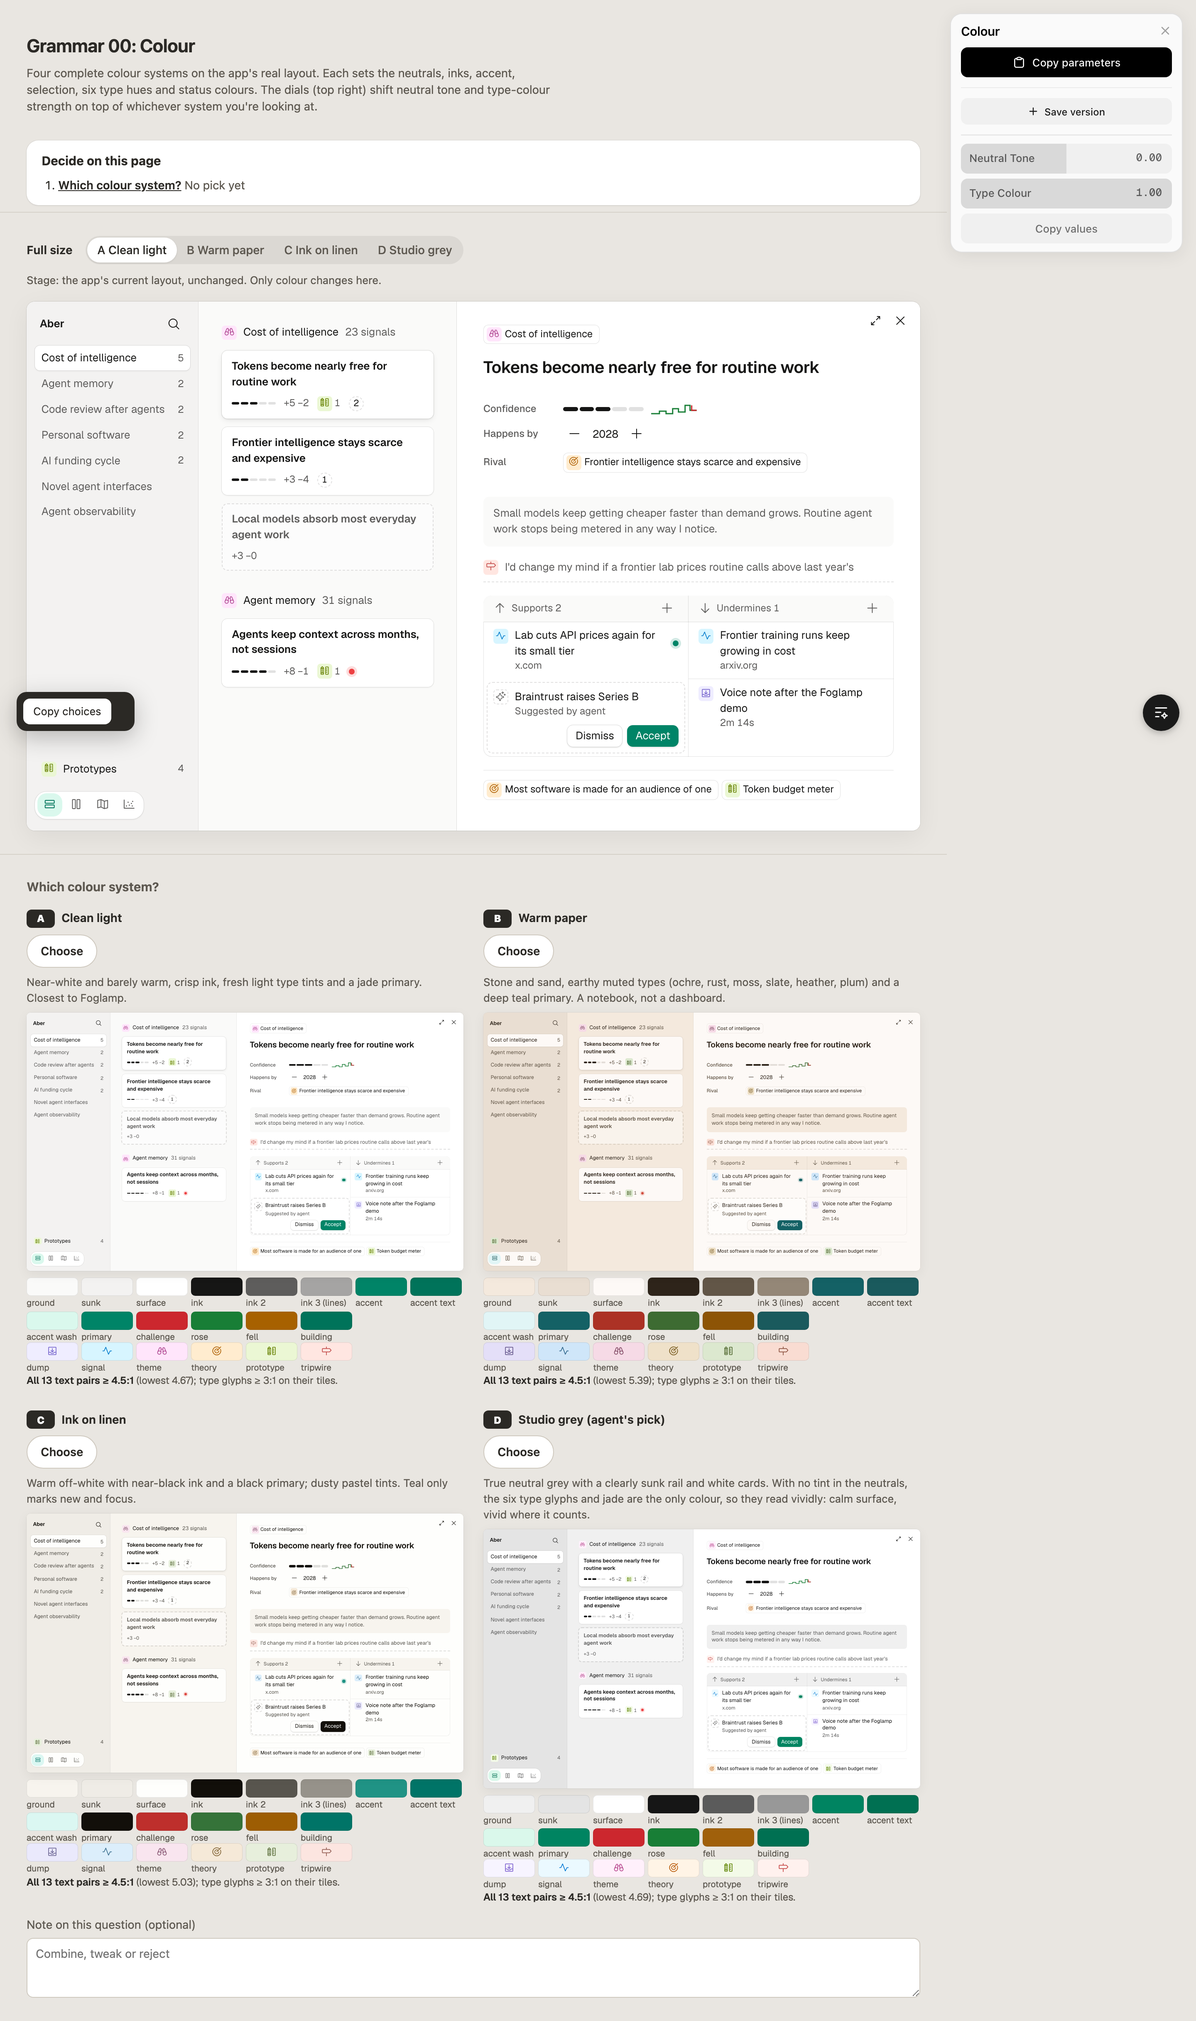
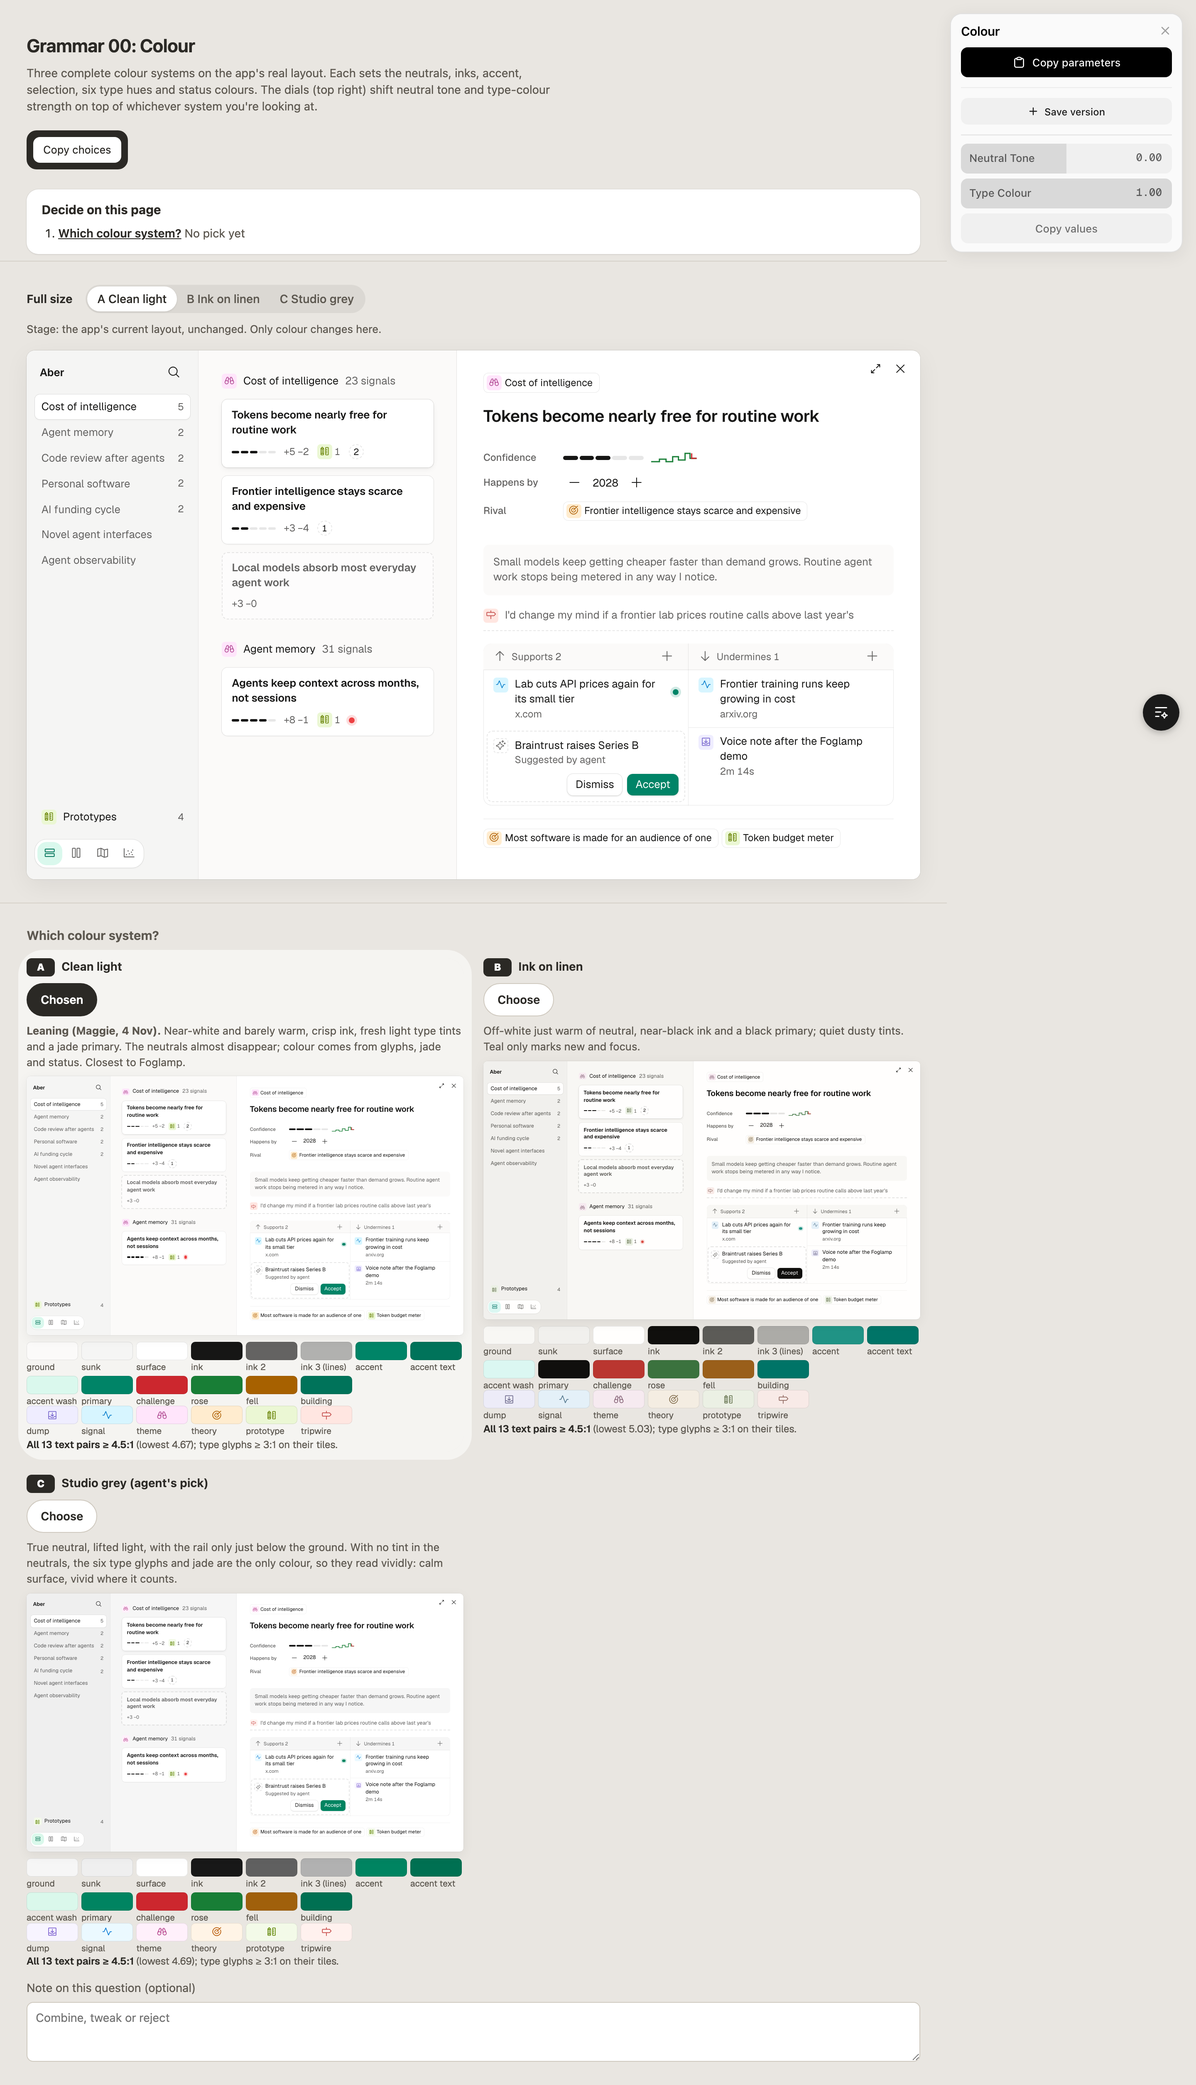
Grammar 00: subtler neutrals, drop Warm paper

Changed region(s): [[0.0, 0.0312, 0.7812, 0.9684], [0.8125, 0.0312, 1.0, 0.1249], [0.9375, 0.3124, 1.0, 0.3748]]

diff --git a/design/grammar/_shared/tokens.css b/design/grammar/_shared/tokens.css
@@ -8,7 +8,7 @@
    inside the page recomputes them with its own system. */
 
 :root {
-  --tone: 0.25;          /* default a touch warmer than designed: Maggie found Sage too cool */
+  --tone: 0;             /* 0 = the system as designed */
   --type-k: 1;
   --r: 7px;
   --text-body: 13px;
@@ -19,21 +19,12 @@
    Each sets: neutral hue/chroma and lightness steps, accent, type hues and their
    tile/glyph lightness+chroma (shared, so the six hues sit at one weight), status. */
 
-/* Default for 01-foundations until a system is chosen on 00-colour: Sage, warmed. */
-:root, [data-system="sage"] {
-  --n-h: 165; --n-c: 0.006;
-  --L-ground: 0.972; --L-sunk: 0.948; --L-surface: 1; --L-ink: 0.235; --L-ink2: 0.48; --L-ink3: 0.66;
-  --acc-h: 170; --acc-c: 0.115; --acc-L: 0.64; --acc-L-text: 0.52;
-  --primary-default: accent;
-  --t-dump: 285; --t-signal: 240; --t-theme: 335; --t-theory: 75; --t-prototype: 118; --t-tripwire: 28;
-  --tt-L: 0.952; --tt-C: 0.038; --tg-L: 0.53; --tg-C: 0.13;
-  --st-neg: oklch(0.55 0.19 25); --st-neg-dot: oklch(0.63 0.2 25); --st-pos: oklch(0.52 0.13 145); --st-fell: oklch(0.55 0.12 65);
-}
-
-/* 1. Clean light: near-neutral white and grey, crisp ink, fresh light type tints, jade accent (Foglamp). */
-[data-system="clean"] {
-  --n-h: 90; --n-c: 0.002;
-  --L-ground: 0.985; --L-sunk: 0.962; --L-surface: 1; --L-ink: 0.2; --L-ink2: 0.48; --L-ink3: 0.72;
+/* 1. Clean light (lead; Maggie leaning, 4 Nov): near-white, barely warm, crisp ink, fresh light type tints, jade primary.
+      Also the default for every page until a system is chosen. Neutrals almost disappear: sunk sits 0.017 below ground. */
+:root, [data-system="clean"] {
+  --n-h: 90; --n-c: 0.0015;
+  --L-ground: 0.986; --L-sunk: 0.969; --L-surface: 1; --L-ink: 0.2; --L-ink2: 0.5; --L-ink3: 0.76;
+  --hl-a: 7%; --hl2-a: 10%; --sh-k: 0.8;
   --acc-h: 172; --acc-c: 0.115; --acc-L: 0.54; --acc-L-text: 0.49;
   --primary-default: accent;
   --t-dump: 288; --t-signal: 245; --t-theme: 340; --t-theory: 70; --t-prototype: 122; --t-tripwire: 25;
@@ -41,33 +32,24 @@
   --st-neg: oklch(0.55 0.2 25); --st-neg-dot: oklch(0.63 0.21 25); --st-pos: oklch(0.52 0.14 148); --st-fell: oklch(0.56 0.13 65);
 }
 
-/* 2. Warm paper: stone and sand neutrals, earthy muted type hues, deep teal accent. */
-[data-system="paper"] {
-  --n-h: 70; --n-c: 0.02;
-  --L-ground: 0.94; --L-sunk: 0.905; --L-surface: 0.985; --L-ink: 0.27; --L-ink2: 0.46; --L-ink3: 0.63;
-  --acc-h: 200; --acc-c: 0.07; --acc-L: 0.45; --acc-L-text: 0.43;
-  --primary-default: accent;
-  --t-dump: 295; --t-signal: 242; --t-theme: 350; --t-theory: 82; --t-prototype: 128; --t-tripwire: 38;
-  --tt-L: 0.915; --tt-C: 0.035; --tg-L: 0.48; --tg-C: 0.085;
-  --st-neg: oklch(0.5 0.16 30); --st-neg-dot: oklch(0.6 0.17 30); --st-pos: oklch(0.48 0.1 140); --st-fell: oklch(0.5 0.11 65);
-}
-
-/* 3. Ink on linen: warm off-white, near-black ink and a black primary, dusty pastel tints; teal only for new and focus. */
+/* 3. Ink on linen: off-white just warm of neutral, near-black ink and a black primary, quiet dusty tints; teal only for new and focus. */
 [data-system="linen"] {
-  --n-h: 85; --n-c: 0.009;
-  --L-ground: 0.968; --L-sunk: 0.943; --L-surface: 0.996; --L-ink: 0.17; --L-ink2: 0.45; --L-ink3: 0.66;
+  --n-h: 85; --n-c: 0.004;
+  --L-ground: 0.975; --L-sunk: 0.955; --L-surface: 0.998; --L-ink: 0.17; --L-ink2: 0.47; --L-ink3: 0.74;
+  --hl-a: 8%; --hl2-a: 11%; --sh-k: 0.85;
   --acc-h: 182; --acc-c: 0.1; --acc-L: 0.6; --acc-L-text: 0.5;
   --primary-default: ink;
   --t-dump: 290; --t-signal: 238; --t-theme: 345; --t-theory: 78; --t-prototype: 125; --t-tripwire: 32;
-  --tt-L: 0.94; --tt-C: 0.026; --tg-L: 0.52; --tg-C: 0.075;
-  --st-neg: oklch(0.53 0.18 27); --st-neg-dot: oklch(0.61 0.19 27); --st-pos: oklch(0.5 0.11 145); --st-fell: oklch(0.54 0.12 65);
+  --tt-L: 0.948; --tt-C: 0.016; --tg-L: 0.53; --tg-C: 0.055;
+  --st-neg: oklch(0.53 0.17 27); --st-neg-dot: oklch(0.61 0.18 27); --st-pos: oklch(0.5 0.1 145); --st-fell: oklch(0.54 0.11 65);
 }
 
-/* 4. Studio grey (agent's proposal): true neutral grey with a clearly sunk rail, white cards, and the six type
-      glyphs as the only colour besides jade; vivid glyphs on near-white tiles. */
+/* 4. Studio grey (agent's proposal): true neutral, lifted so nothing reads as a grey block; rail only just below ground;
+      the type glyphs and jade are the only colour, vivid on near-white tiles. */
 [data-system="studio"] {
-  --n-h: 250; --n-c: 0.0;
-  --L-ground: 0.955; --L-sunk: 0.918; --L-surface: 1; --L-ink: 0.2; --L-ink2: 0.47; --L-ink3: 0.68;
+  --n-h: 250; --n-c: 0;
+  --L-ground: 0.972; --L-sunk: 0.952; --L-surface: 1; --L-ink: 0.21; --L-ink2: 0.49; --L-ink3: 0.76;
+  --hl-a: 7%; --hl2-a: 10%; --sh-k: 0.75;
   --acc-h: 168; --acc-c: 0.12; --acc-L: 0.54; --acc-L-text: 0.48;
   --primary-default: accent;
   --t-dump: 292; --t-signal: 250; --t-theme: 345; --t-theory: 62; --t-prototype: 125; --t-tripwire: 25;
@@ -92,8 +74,8 @@
   --ink-3:    oklch(var(--L-ink3) calc(var(--nc) * 1.4) var(--nh));                       /* lines and marks only */
   --ink-hover: oklch(calc(var(--L-ink) + 0.1) calc(var(--nc) * 1.2) var(--nh));
   --on-ink: oklch(0.99 0 0); --on-ink-2: oklch(0.82 0.005 var(--nh)); --on-ink-fill: oklch(1 0 0 / 0.16);
-  --hairline:        oklch(var(--shade) / 9%);
-  --hairline-strong: oklch(var(--shade) / 13%);
+  --hairline:        oklch(var(--shade) / var(--hl-a));
+  --hairline-strong: oklch(var(--shade) / var(--hl2-a));
   --draft-fill:      oklch(1 0 0 / 45%);
   --scrim:           oklch(var(--shade) / 18%);
 
@@ -111,16 +93,16 @@
   /* Elevation: shadow means height; a 0.5px tinted ring plus soft drops */
   --elev-0: none;
   --elev-1: inset -0.5px 0 0 var(--hairline);
-  --elev-2: 0 0 0 0.5px oklch(var(--shade) / 10%), 0 calc(1px * var(--soft)) calc(2px * var(--soft)) oklch(var(--shade) / calc(5% / var(--soft)));
-  --sel:    0 0 0 0.5px oklch(var(--shade) / 12%), 0 calc(1px * var(--soft)) calc(2px * var(--soft)) oklch(var(--shade) / calc(6% / var(--soft))),
-            0 calc(3px * var(--soft)) calc(8px * var(--soft)) -2px oklch(var(--shade) / calc(10% / var(--soft)));
-  --elev-3: 0 0 0 0.5px oklch(var(--shade) / 10%), 0 calc(8px * var(--soft)) calc(16px * var(--soft)) -4px oklch(var(--shade) / calc(8% / var(--soft))),
-            0 calc(20px * var(--soft)) calc(44px * var(--soft)) -10px oklch(var(--shade) / calc(18% / var(--soft)));
-  --elev-4: 0 0 0 0.5px oklch(var(--shade) / 12%), 0 calc(6px * var(--soft)) calc(12px * var(--soft)) -2px oklch(var(--shade) / calc(8% / var(--soft))),
-            0 calc(16px * var(--soft)) calc(36px * var(--soft)) -8px oklch(var(--shade) / calc(20% / var(--soft)));
-  --elev-5: 0 0 0 0.5px oklch(var(--shade) / 12%), 0 calc(24px * var(--soft)) calc(56px * var(--soft)) -12px oklch(var(--shade) / calc(26% / var(--soft)));
-  --elev-6: 0 calc(4px * var(--soft)) calc(12px * var(--soft)) oklch(var(--shade) / calc(20% / var(--soft)));
-  --elev-7: 0 calc(2px * var(--soft)) calc(6px * var(--soft)) oklch(var(--shade) / calc(18% / var(--soft)));
+  --elev-2: 0 0 0 0.5px oklch(var(--shade) / 10%), 0 calc(1px * var(--soft)) calc(2px * var(--soft)) oklch(var(--shade) / calc(5% * var(--sh-k) / var(--soft)));
+  --sel:    0 0 0 0.5px oklch(var(--shade) / 12%), 0 calc(1px * var(--soft)) calc(2px * var(--soft)) oklch(var(--shade) / calc(6% * var(--sh-k) / var(--soft))),
+            0 calc(3px * var(--soft)) calc(8px * var(--soft)) -2px oklch(var(--shade) / calc(10% * var(--sh-k) / var(--soft)));
+  --elev-3: 0 0 0 0.5px oklch(var(--shade) / 10%), 0 calc(8px * var(--soft)) calc(16px * var(--soft)) -4px oklch(var(--shade) / calc(8% * var(--sh-k) / var(--soft))),
+            0 calc(20px * var(--soft)) calc(44px * var(--soft)) -10px oklch(var(--shade) / calc(18% * var(--sh-k) / var(--soft)));
+  --elev-4: 0 0 0 0.5px oklch(var(--shade) / 12%), 0 calc(6px * var(--soft)) calc(12px * var(--soft)) -2px oklch(var(--shade) / calc(8% * var(--sh-k) / var(--soft))),
+            0 calc(16px * var(--soft)) calc(36px * var(--soft)) -8px oklch(var(--shade) / calc(20% * var(--sh-k) / var(--soft)));
+  --elev-5: 0 0 0 0.5px oklch(var(--shade) / 12%), 0 calc(24px * var(--soft)) calc(56px * var(--soft)) -12px oklch(var(--shade) / calc(26% * var(--sh-k) / var(--soft)));
+  --elev-6: 0 calc(4px * var(--soft)) calc(12px * var(--soft)) oklch(var(--shade) / calc(20% * var(--sh-k) / var(--soft)));
+  --elev-7: 0 calc(2px * var(--soft)) calc(6px * var(--soft)) oklch(var(--shade) / calc(18% * var(--sh-k) / var(--soft)));
   --btn-shadow: 0 1px 2px oklch(var(--shade) / 12%);
   --window-shadow: 0 0 0 0.5px oklch(var(--shade) / 12%), 0 8px 30px oklch(var(--shade) / 6%);
 

diff --git a/design/grammar/00-colour/index.html b/design/grammar/00-colour/index.html
@@ -24,7 +24,7 @@
 
 <header class="jig-head">
   <h1>Grammar 00: Colour</h1>
-  <p>Four complete colour systems on the app's real layout. Each sets the neutrals, inks, accent, selection, six type hues and status colours. The dials (top right) shift neutral tone and type-colour strength on top of whichever system you're looking at.</p>
+  <p>Three complete colour systems on the app's real layout. Each sets the neutrals, inks, accent, selection, six type hues and status colours. The dials (top right) shift neutral tone and type-colour strength on top of whichever system you're looking at.</p>
 </header>
 
 <div class="decide">
@@ -39,38 +39,31 @@
     <span class="viewer-label">Full size</span>
     <span class="seg-group" role="group" aria-label="System at full size">
       <button type="button" value="clean" aria-pressed="true">A Clean light</button>
-      <button type="button" value="paper" aria-pressed="false">B Warm paper</button>
-      <button type="button" value="linen" aria-pressed="false">C Ink on linen</button>
-      <button type="button" value="studio" aria-pressed="false">D Studio grey</button>
+      <button type="button" value="linen" aria-pressed="false">B Ink on linen</button>
+      <button type="button" value="studio" aria-pressed="false">C Studio grey</button>
     </span>
   </div>
   <p class="stage-label">Stage: the app's current layout, unchanged. Only colour changes here.</p>
   <div class="stg-host" id="viewer" data-stage='{"system":"clean"}'></div>
 </section>
 
-<section class="jig-section" id="systems" data-decision="system" data-question="Which colour system?">
+<section class="jig-section" id="systems" data-decision="system" data-question="Which colour system?" data-default="A clean light">
   <div class="jig-compare systems">
     <div class="jig-option" data-option="A clean light">
       <div class="jig-label"><b>A</b> Clean light</div>
-      <p class="jig-note">Near-white and barely warm, crisp ink, fresh light type tints and a jade primary. Closest to Foglamp.</p>
+      <p class="jig-note"><b>Leaning (Maggie, 4 Nov).</b> Near-white and barely warm, crisp ink, fresh light type tints and a jade primary. The neutrals almost disappear; colour comes from glyphs, jade and status. Closest to Foglamp.</p>
       <div class="stg-host" data-option-stage data-stage='{"system":"clean"}'></div>
       <div class="strip" data-strip="clean"></div>
     </div>
-    <div class="jig-option" data-option="B warm paper">
-      <div class="jig-label"><b>B</b> Warm paper</div>
-      <p class="jig-note">Stone and sand, earthy muted types (ochre, rust, moss, slate, heather, plum) and a deep teal primary. A notebook, not a dashboard.</p>
-      <div class="stg-host" data-option-stage data-stage='{"system":"paper"}'></div>
-      <div class="strip" data-strip="paper"></div>
-    </div>
-    <div class="jig-option" data-option="C ink on linen">
-      <div class="jig-label"><b>C</b> Ink on linen</div>
-      <p class="jig-note">Warm off-white with near-black ink and a black primary; dusty pastel tints. Teal only marks new and focus.</p>
+    <div class="jig-option" data-option="B ink on linen">
+      <div class="jig-label"><b>B</b> Ink on linen</div>
+      <p class="jig-note">Off-white just warm of neutral, near-black ink and a black primary; quiet dusty tints. Teal only marks new and focus.</p>
       <div class="stg-host" data-option-stage data-stage='{"system":"linen"}'></div>
       <div class="strip" data-strip="linen"></div>
     </div>
-    <div class="jig-option" data-option="D studio grey">
-      <div class="jig-label"><b>D</b> Studio grey (agent's pick)</div>
-      <p class="jig-note">True neutral grey with a clearly sunk rail and white cards. With no tint in the neutrals, the six type glyphs and jade are the only colour, so they read vividly: calm surface, vivid where it counts.</p>
+    <div class="jig-option" data-option="C studio grey">
+      <div class="jig-label"><b>C</b> Studio grey (agent's pick)</div>
+      <p class="jig-note">True neutral, lifted light, with the rail only just below the ground. With no tint in the neutrals, the six type glyphs and jade are the only colour, so they read vividly: calm surface, vivid where it counts.</p>
       <div class="stg-host" data-option-stage data-stage='{"system":"studio"}'></div>
       <div class="strip" data-strip="studio"></div>
     </div>

diff --git a/design/grammar/01-foundations/foundations.js b/design/grammar/01-foundations/foundations.js
@@ -1,6 +1,8 @@
 // Grammar 1: foundations. Specimens, the decide box, and Dial Kit dials on top of ../_shared/tokens.css.
 // The stage itself comes from ../_shared/stage.js.
 (() => {
+  // The shell's Copy choices dock lives in the page header, so it never covers a stage
+  addEventListener("load", () => { const d = document.querySelector(".jig-dock"), h = document.querySelector(".jig-head"); if (d && h) h.append(d); });
   // Object glyphs: app/web/src/ui/atoms.tsx OBJECT_ICONS, plus Signpost (tripwire) and Sparkle (suggestion, no app icon).
   const TYPES = {
     dump:       { icon: "tray-arrow-down", name: "Dump",       purpose: "What I said" },
@@ -81,7 +83,7 @@
   // Dial Kit
   const root = document.documentElement;
   const DIALS = {
-    neutralTone:  { token: "--tone",      def: [0.25, -1, 1, 0.05], unit: "" },
+    neutralTone:  { token: "--tone",      def: [0, -1, 1, 0.05],    unit: "" },
     typeColour:   { token: "--type-k",    def: [1, 0, 1, 0.05],     unit: "" },
     radius:       { token: "--r",         def: [7, 4, 12, 1],       unit: "px" },
     bodySize:     { token: "--text-body", def: [13, 12, 16, 1],     unit: "px" },
@@ -94,7 +96,7 @@
     config.copyValues = { type: "action", label: "Copy values" };
     let current = {};
     const kit = window.DialKit.createDialKit("Foundations", config, {
-      persist: { key: "grammar-01-foundations-v4" },
+      persist: { key: "grammar-01-foundations-v5" },
       onAction: async path => {
         if (path !== "copyValues") return;
         const text = Object.entries(DIALS).map(([k, d]) => `${d.token}: ${current[k]}${d.unit};`).join("\n");

diff --git a/design/grammar/00-colour/colour.js b/design/grammar/00-colour/colour.js
@@ -1,5 +1,7 @@
 // Grammar 00: full-size viewer, token strips with live contrast checks, the decide box and the colour dials.
 (() => {
+  // The shell's Copy choices dock lives in the page header, so it never covers a stage
+  addEventListener("load", () => { const d = document.querySelector(".jig-dock"), h = document.querySelector(".jig-head"); if (d && h) h.append(d); });
   const root = document.documentElement;
   const TYPES = { dump: "tray-arrow-down", signal: "pulse", theme: "binoculars", theory: "target", prototype: "pencil-ruler", tripwire: "signpost" };
 
@@ -65,7 +67,7 @@
     config.copyValues = { type: "action", label: "Copy values" };
     let current = {};
     const kit = window.DialKit.createDialKit("Colour", config, {
-      persist: { key: "grammar-00-colour" },
+      persist: { key: "grammar-00-colour-v2" },
       onAction: async p => { if (p !== "copyValues") return; const t = Object.entries(DIALS).map(([k, d]) => `${d.token}: ${current[k]};`).join("\n"); try { await navigator.clipboard.writeText(t); } catch { console.log(t); } },
     });
     kit.subscribe(v => { current = v; for (const [k, d] of Object.entries(DIALS)) root.style.setProperty(d.token, v[k]); requestAnimationFrame(check); });

diff --git a/design/grammar/01-foundations/foundations.css b/design/grammar/01-foundations/foundations.css
@@ -171,7 +171,7 @@ button.tile:active { scale: var(--press-scale); }
 .jig .jig-option.is-chosen > [data-option-stage] { outline: 0; }
 .jig .jig-option { border-radius: 20px; transition: background-color 160ms, box-shadow 160ms; }
 .jig .jig-option.is-chosen { background: rgb(255 255 255 / 0.55); box-shadow: 0 0 0 10px rgb(255 255 255 / 0.55); }
-.jig .jig-dock { right: auto; left: 20px; }
+.jig-head .jig-dock { position: static; display: inline-flex; margin-top: 12px; box-shadow: none; }
 .specimens-head { max-width: 1180px; margin: 0 auto; padding: 40px 32px 0; }
 .specimens-head h2 { margin: 0; font-size: 18px; }
 .specimens-head p { margin: 4px 0 0; color: #5d5850; }
@@ -191,3 +191,4 @@ button.tile:active { scale: var(--press-scale); }
 .decide-box .pick b { color: #2b2925; font-weight: 600; }
 .jig-section.decided-sec > details > summary { cursor: pointer; font-weight: 650; font-size: 16px; }
 .agent-picks { margin: 12px 0 0; padding-left: 18px; color: #3d3a34; }
+.jig-head .jig-dock output:empty { display: none; }

diff --git a/design/grammar/01-foundations/index.html b/design/grammar/01-foundations/index.html
@@ -62,7 +62,7 @@
     <p style="margin:12px 0 4px;color:#5d5850">From Maggie (PRIOR-DECISIONS.md, 1 to 4 Nov):</p>
     <ul class="agent-picks">
       <li>Layout and navigation stay as the app has them; jigs restyle, they don't re-layout. The pane aligns to the top of the main area.</li>
-      <li>Per-type object colour is back (4 Nov, reverses 1 Nov). Neutral tone is a dial, warmer than Radix Sage by default.</li>
+      <li>Per-type object colour is back (4 Nov, reverses 1 Nov). Neutral tone is a dial; neutrals default to Clean light, the lead system on 00-colour.</li>
       <li>Jade accent means "you are acting here": focus ring, new dots, current view, primary (unless black wins above).</li>
       <li>Phosphor Regular 16; fill only when selected. Glyphs from OBJECT_ICONS plus Signpost; Sparkle for suggestions.</li>
       <li>Geist and Geist Mono; 11/12/13/20 at 13/1.4; 15 for modal titles; names 600.</li>

diff --git a/design/grammar/00-colour/colour.css b/design/grammar/00-colour/colour.css
@@ -1,6 +1,6 @@
 /* Grammar 00: page chrome only. System colours live in ../_shared/tokens.css. */
 @media (min-width: 1100px) { body.jig { padding-right: 300px; } }
-.jig .jig-dock { right: auto; left: 20px; }
+.jig-head .jig-dock { position: static; display: inline-flex; margin-top: 12px; box-shadow: none; }
 .jig .jig-option.is-chosen > [data-option-stage] { outline: 0; }
 .jig .jig-option { border-radius: 20px; transition: background-color 160ms, box-shadow 160ms; }
 .jig .jig-option.is-chosen { background: rgb(255 255 255 / 0.55); box-shadow: 0 0 0 10px rgb(255 255 255 / 0.55); }
@@ -33,3 +33,4 @@
 .contrast { margin: 2px 0 0; }
 .contrast b { color: #2b2925; font-weight: 600; }
 .contrast .fail { color: #b4232a; }
+.jig-head .jig-dock output:empty { display: none; }
